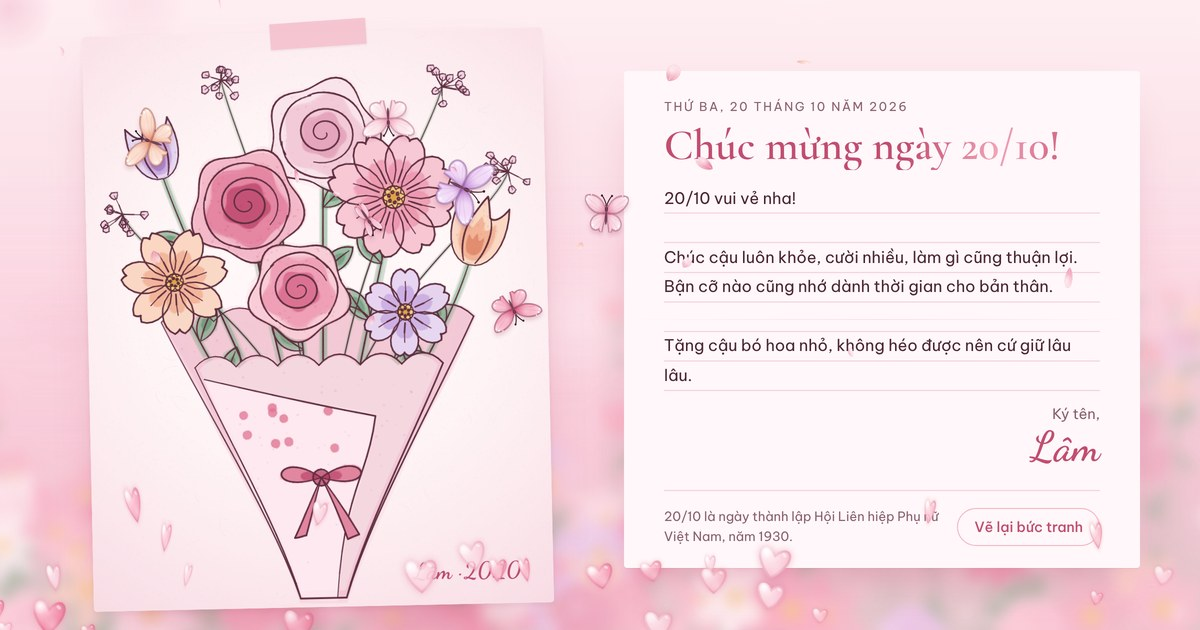
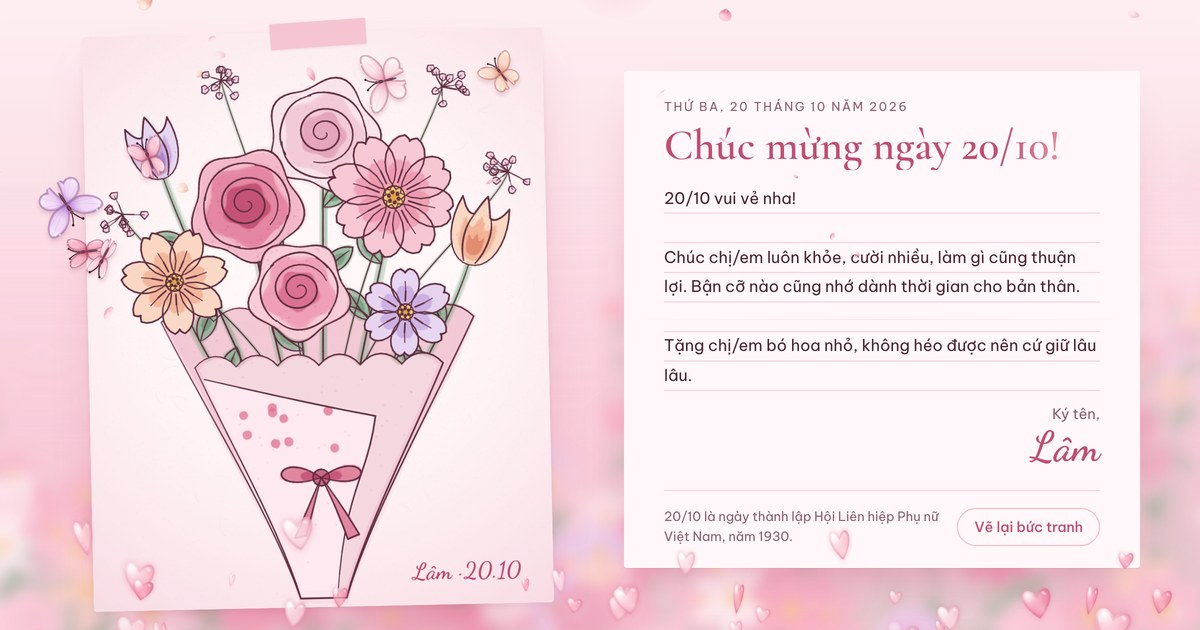
Add files via upload

diff --git a/index.html b/index.html
@@ -3,11 +3,11 @@
 <head>
 <meta charset="utf-8">
 <meta name="viewport" content="width=device-width, initial-scale=1, viewport-fit=cover">
-<meta name="description" content="Một bó hoa nhỏ tặng cậu nhân ngày 20/10.">
+<meta name="description" content="Một bó hoa nhỏ tặng chị/em nhân ngày 20/10.">
 <meta name="theme-color" content="#fbdfe8">
 <meta property="og:type" content="website">
 <meta property="og:url" content="https://noway165.github.io/hoa_2010/">
-<meta property="og:title" content="Có thư cho cậu nè 💌">
+<meta property="og:title" content="Có thư cho chị/em nè 💌">
 <meta property="og:description" content="Mở phong thư để nhận hoa 20/10 nha!">
 <meta property="og:image" content="https://noway165.github.io/hoa_2010/preview.jpg">
 <meta property="og:image:width" content="1200">
@@ -326,14 +326,14 @@
 <main class="page">
   <section class="intro" id="intro">
     <p class="eyebrow">20 · 10 · Ngày Phụ nữ Việt Nam</p>
-    <h1 class="intro-title">Có thư cho cậu nè</h1>
+    <h1 class="intro-title">Có thư cho chị/em nè</h1>
     <div class="env-wrap">
       <button class="envelope" id="envelope" type="button" aria-label="Mở thiệp chúc mừng 20/10">
         <span class="env-back"></span>
         <span class="env-letter">Chúc mừng 20/10</span>
         <span class="env-front"></span>
         <span class="env-flap"></span>
-        <span class="env-to">Gửi cậu</span>
+        <span class="env-to">Gửi chị/em</span>
         <span class="postmark">20 · 10<br>2026</span>
         <span class="seal"><b>20</b><i>10</i></span>
         <span class="env-shine"></span>
@@ -374,8 +374,8 @@
 
   const WISH = [
     '20/10 vui vẻ nha!',
-    'Chúc cậu luôn khỏe, cười nhiều, làm gì cũng thuận lợi. Bận cỡ nào cũng nhớ dành thời gian cho bản thân.',
-    'Tặng cậu bó hoa nhỏ, không héo được nên cứ giữ lâu lâu.'
+    'Chúc chị/em luôn khỏe, cười nhiều, làm gì cũng thuận lợi. Bận cỡ nào cũng nhớ dành thời gian cho bản thân.',
+    'Tặng chị/em bó hoa nhỏ, không héo được nên cứ giữ lâu lâu.'
   ].map((w) => w.normalize('NFC'));
   $('#fulltext').textContent = WISH.join(' ') + ' Ký tên, Lâm.';
 
@@ -528,14 +528,14 @@
     { light: [241, 162, 184], mid: [222, 104, 140], deep: [180, 56, 96] }
   ];
   const FLOWERS = [
-    { k: 't', x: -0.33, y: 0.25, s: 0.095, p: 3, tilt: -0.28, msg: 'chúc cậu ngủ đủ giấc, sáng nào dậy cũng tươi.' },
-    { k: 'r', x: 0.02,  y: 0.18, s: 0.13,  p: 2, msg: 'chúc cậu luôn xinh, chụp kiểu nào cũng đẹp.' },
-    { k: 'c', x: 0.17,  y: 0.29, s: 0.14,  p: 0, n: 8, msg: 'chúc cậu ăn gì cũng ngon, ăn hoài không lo gì.' },
-    { k: 'r', x: -0.15, y: 0.30, s: 0.13,  p: 4, msg: 'chúc cậu deadline nào cũng xong sớm.' },
-    { k: 't', x: 0.33,  y: 0.41, s: 0.105, p: 1, tilt: 0.3, msg: 'chúc cậu đi đâu cũng gặp người tốt.' },
-    { k: 'c', x: -0.31, y: 0.43, s: 0.11,  p: 1, n: 7, msg: 'chúc cậu thi đâu đậu đó, điểm cao vèo vèo.' },
-    { k: 'r', x: -0.04, y: 0.45, s: 0.115, p: 0, msg: 'chúc cậu lúc nào cũng có chuyện để cười.' },
-    { k: 'c', x: 0.19,  y: 0.49, s: 0.10,  p: 3, n: 6, msg: 'chúc cậu luôn khỏe, không ốm vặt.' }
+    { k: 't', x: -0.33, y: 0.25, s: 0.095, p: 3, tilt: -0.28, msg: 'chúc chị/em ngủ đủ giấc, sáng nào dậy cũng tươi.' },
+    { k: 'r', x: 0.02,  y: 0.18, s: 0.13,  p: 2, msg: 'chúc chị/em luôn xinh, chụp kiểu nào cũng đẹp.' },
+    { k: 'c', x: 0.17,  y: 0.29, s: 0.14,  p: 0, n: 8, msg: 'chúc chị/em ăn gì cũng ngon, ăn hoài không lo gì.' },
+    { k: 'r', x: -0.15, y: 0.30, s: 0.13,  p: 4, msg: 'chúc chị/em deadline nào cũng xong sớm.' },
+    { k: 't', x: 0.33,  y: 0.41, s: 0.105, p: 1, tilt: 0.3, msg: 'chúc chị/em đi đâu cũng gặp người tốt.' },
+    { k: 'c', x: -0.31, y: 0.43, s: 0.11,  p: 1, n: 7, msg: 'chúc chị/em thi đâu đậu đó, điểm cao vèo vèo.' },
+    { k: 'r', x: -0.04, y: 0.45, s: 0.115, p: 0, msg: 'chúc chị/em lúc nào cũng có chuyện để cười.' },
+    { k: 'c', x: 0.19,  y: 0.49, s: 0.10,  p: 3, n: 6, msg: 'chúc chị/em luôn khỏe, không ốm vặt.' }
   ];
   const SPRIGS = [{ x: -0.42, y: 0.31 }, { x: 0.42, y: 0.25 }, { x: 0.28, y: 0.1 }, { x: -0.2, y: 0.08 }];
 
